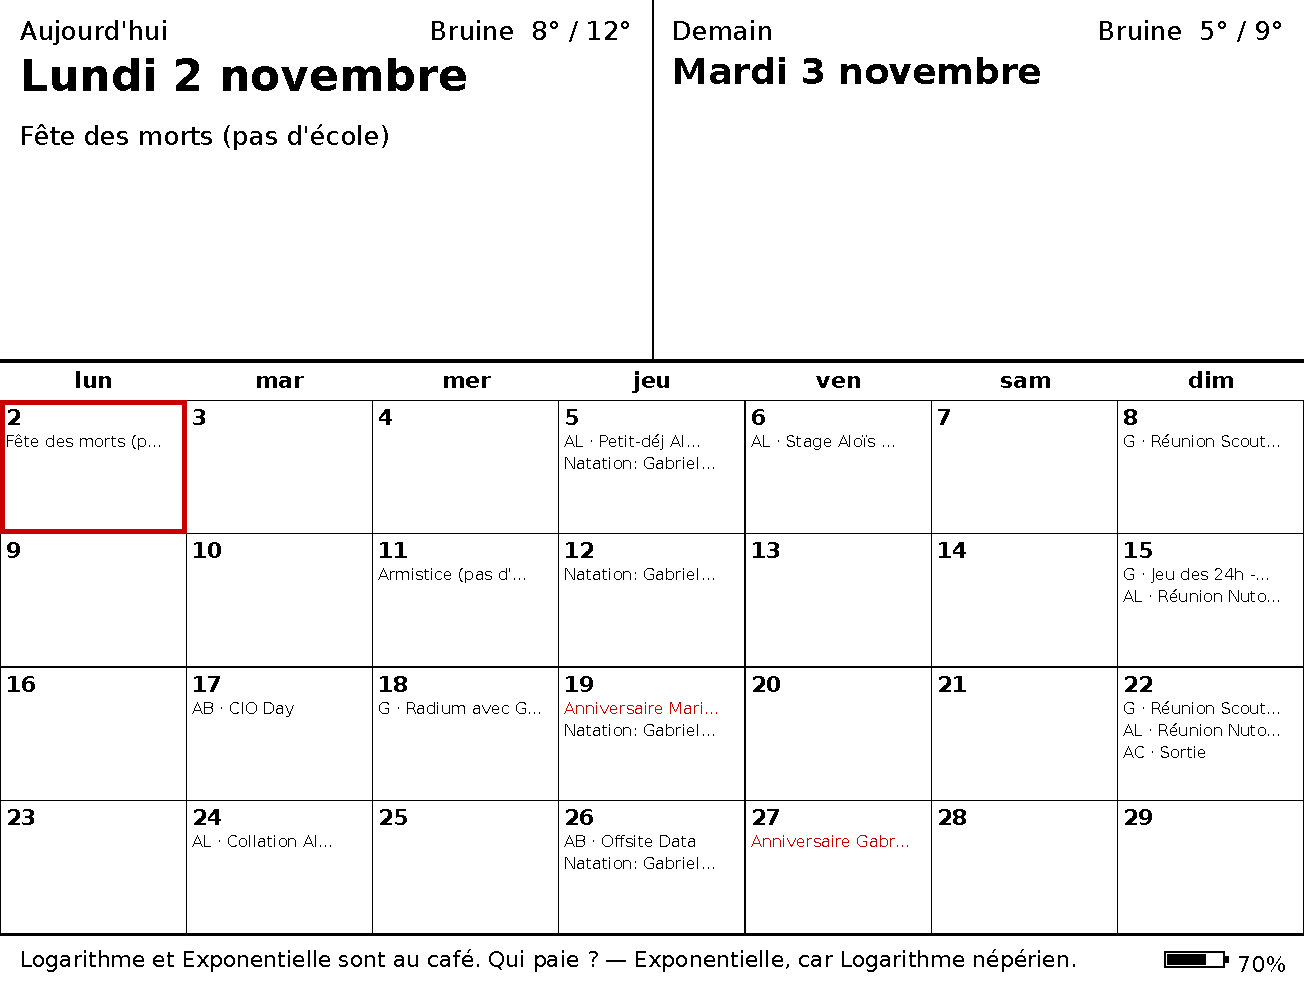
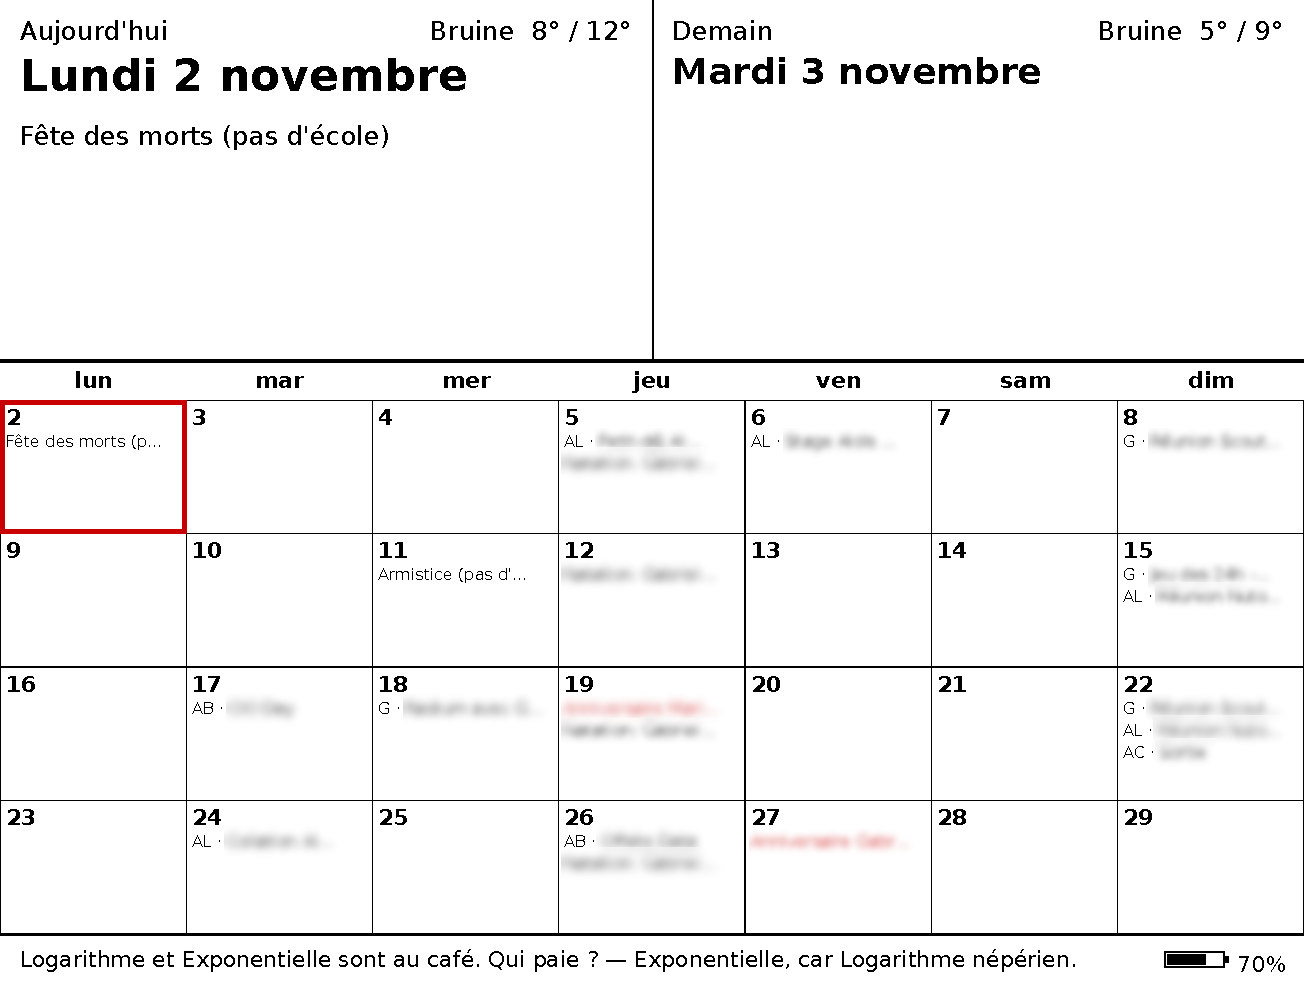
about me

diff --git a/content/posts/2026-11-02-Four-years-in-the-basement.md b/content/posts/2026-11-02-Four-years-in-the-basement.md
@@ -8,8 +8,8 @@ author:     "Augustin Borsu"
 
 
 Like many people, I have a TODO list of pet projects that keeps getting longer, and one of my long-time project has been to replace the paper calendar on the fridge. 
-My goal was simple, I really like having a physical calendar visible from the breakfast table. It helps to casually remind me of things and has helped me avoid embarrassing situations like being late for a school field trip or forgetting that it's my turn to bring the class' "healthy snack".
-The disadvantage of the standard paper calendar is of course that it sits at home. This means I need to remember to add events to it when I learn about them when I'm not home, and I can't check it when booking things. So to summarize, my business requirements were:
+My goal was simple: I really like having a physical calendar visible from the breakfast table. It helps to casually remind me of things and has helped me avoid embarrassing situations like being late for a school field trip or forgetting that it's my turn to bring the class' "healthy snack".
+The disadvantage of the standard paper calendar is of course that it sits at home. This means I need to remember to add events I hear about while I'm out, and I can't check it when booking things. So to summarize, my business requirements were:
 
 - physical calendar prominently visible from my breakfast station
 - updatable while on the go
@@ -17,7 +17,7 @@ The disadvantage of the standard paper calendar is of course that it sits at hom
 
 
 I thought about using a calendar on my phone or on a tablet, but I really wanted the calendar to be visible without having to take any active steps.
-I know myself, I can confidently convince myself that there is nothing important and not look at the calendar. It has to be displayed at all times. 
+I know myself, I can confidently convince myself that there is nothing important and not look at the calendar. The calendar must be visible without requiring me to unlock a screen or open an app.
 In order to guarantee this, while also being easy on the power consumption I decided to go for an e-ink display, and looking around I found a nice combination of devices which I ordered. That was in March 2023.
 
 
@@ -42,7 +42,7 @@ I felt it would allow some creativity on how to make sure the right information 
 
 ## Sunday afternoon: from SD card to first pixels
 
-The first hour was spent setting up the Raspberry. Creating a disk image using Raspberry Pi Imager on the Mac, Raspberry Pi OS Lite, Wi-Fi and SSH set in advance, and five minutes later a steady green LED. My son typed `ssh` for the first time and was "inside the Raspberry Pi". We named it `otocal` for Otomate and calendar!
+The first hour was spent setting up the Raspberry. We created a disk image using Raspberry Pi Imager on the Mac and Raspberry Pi OS Lite, Wi-Fi and SSH are set from the start, and five minutes later a steady green LED we can logon. My son typed `ssh` for the first time and was "inside the Raspberry Pi". We named it `otocal` for Otomate and calendar!
 
 Then came the good part: the bugs!
 
@@ -54,7 +54,7 @@ Then came the good part: the bugs!
 
 Before writing a line of code, we imagined what it would look like: the next four weeks, a zoom on today and tomorrow, birthdays in red, holidays as bars. If we still had time, a "phrase of the day" and a weather indicator. A couple of prompts later we had a first idea.
 
-I created a technical account on my self-hosted Nextcloud for the family calendars to live on (one per family member). So the Pi reads it over CalDAV with the `caldav` Python library. A few choices kept it simple and safe:
+I created a technical account on my self-hosted Nextcloud for the family calendars to live on (one per family member). The Pi reads the nextcloud calendar over CalDAV with the `caldav` Python library. A few choices kept it simple and safe:
 
 - **An app password**, dedicated and stored in a secret file.
 - **Initials instead of colours.** The screen has three colours, not one per person, so each family member's calendar gets a short prefix like `AB ·`.
@@ -89,8 +89,14 @@ My son left soon after but I kept going to make it just right:
 *The latest preview.*
 
 ## What's next
-Next up: measure the battery drain per cycle, check that the PiSugar truly cuts power when the Pi is off, and maybe swap the bit-banged SPI for hardware SPI to shorten each refresh. But honestly? It already works. It's on the table, it wakes itself up three times a day, and it tells us a joke. 
+Measure the battery drain per cycle, check that the PiSugar truly cuts power when the Pi is off, and maybe swap the bit-banged SPI for hardware SPI to shorten each refresh.
+On the non-programing side, figure out a way to make it less bulky and make a nice frame so that it blends in better. But honestly? It already works. It's on the table, it wakes itself up three times a day, and it tells us a joke. 
 
 
 ## Finally
-First thing my son did coming downstairs was to look at the calendar to read the joke of the day. At the same time, I gave the calendar a quick glance. No more forgotten events!
+The first thing my son did coming downstairs was to look at the calendar to read the joke of the day. At the same time, I gave the calendar a quick glance. No more forgotten events!
+
+
+![The e-ink calendar on the kitchen counter, in front of the old paper calendar still hanging on the fridge](../../assets/eink-calendar/frigo.jpg)
+
+*The new calendar, with its paper predecessor still on the fridge behind it.*

diff --git a/content/pages/about.md b/content/pages/about.md
@@ -1,32 +1,34 @@
 ---
-title: About Phenomic base theme
-hero: https://farm4.staticflickr.com/3949/15589950511_3675b15e59_k.jpg
-# hero credit: https://www.flickr.com/photos/pslee999/15589950511/
-cta:
-  label: Discover Phenomic now
-  link: "https://phenomic.io/"
-  props:
-    big: true
+title: About me
 ---
 
-You are currently viewing Phenomic base theme.
+Hi, I'm Augustin Borsu. I live in Belgium with my partner and our two kids, and I like taking things apart to see how they work, then putting them back together slightly differently.
 
-For now [Phenomic does not provide a native way to extend themes](https://github.com/MoOx/phenomic/issues/508) but since it's based on
-React and uses a component approach, it's pretty easy to make your own reusable collection of layouts and components.
+## By day
 
----
+I'm an IT tribe lead for artificial intelligence. In a field with a lot of hype, my job is mostly to keep people from jumping from one tool to another, and make sure that we ansewr real business needs with as little complexity as needed. I care about practical results and automating the boring parts, and I believe the simplest solution that works is usually the right one. Two quotes keep me honest:
 
-This website is made with [Phenomic](https://phenomic.io/).
+> Simple is better than complex. Complex is better than complicated.
+> <br>*The Zen of Python*
 
-If you are curious about it, you can take a look at
-[existing websites that use Phenomic](https://phenomic.io/showcase/),
-some projects share their source code!
+> Perfection is achieved not when there is nothing more to add, but when there is nothing left to take away.
+> <br>*Antoine de Saint-Exupéry*
 
-<!-- demo to show you that you can use "assets" folder -->
-<small>
-  Built with
-  <a href="https://facebook.github.io/react/">
-    <img alt="" src="../assets/react.svg" width="16" height="16" />
-    React
-  </a>.
-</small>
+## By night (and weekends)
+
+- **Renovating our house.** Four years in, the novelty has worn off, yet there is always something left to do.
+- **Cycling.** Nothing like feeling the open road and the wind in my hair.
+- **Playing Go.** A game where the rules fit on a napkin and the strategy doesn't fit in a lifetime.
+- **Railroad Tycoon III,** when I need a break from the vicissitudes of life. Some people meditate; I build railways to nowhere and watch the little trains go.
+
+I speak French, English and I dabble in Dutch, German, Polish, and Russian so if you write to me in any of those, I'll answer. Probably even in the right one.
+
+## About this site
+
+This is my sandbox: the place where I try new technologies and write down what I learned, mostly so future me doesn't have to work it out again. You'll find notes on self-hosting (the site runs on a [NixOS](https://nixos.org) server I manage myself, alongside our family Nextcloud), data infrastructure, and hardware tinkering.
+
+It's a static site generated with [Pelican](https://getpelican.com/) from Markdown files. The pages don't use trackers or cookies. The source is on [GitHub](https://github.com/acelpb/normandy), and so is the [server configuration](https://github.com/acelpb/acelpb).
+
+## Say hello
+
+I'm always happy to chat about AI that actually works, automation, self-hosting, or a good game of Go. You can find me on [GitHub](https://github.com/aborsu) and [LinkedIn](https://www.linkedin.com/in/aborsu/).
